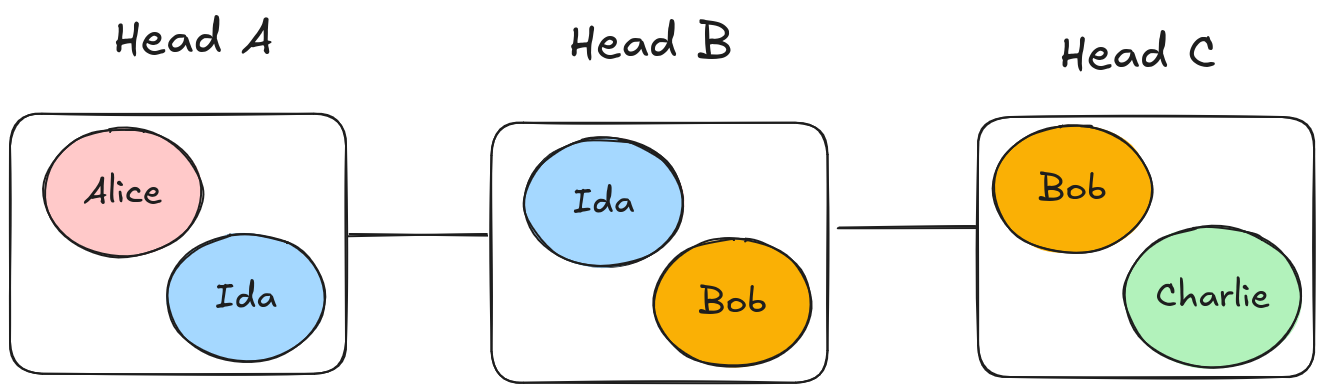
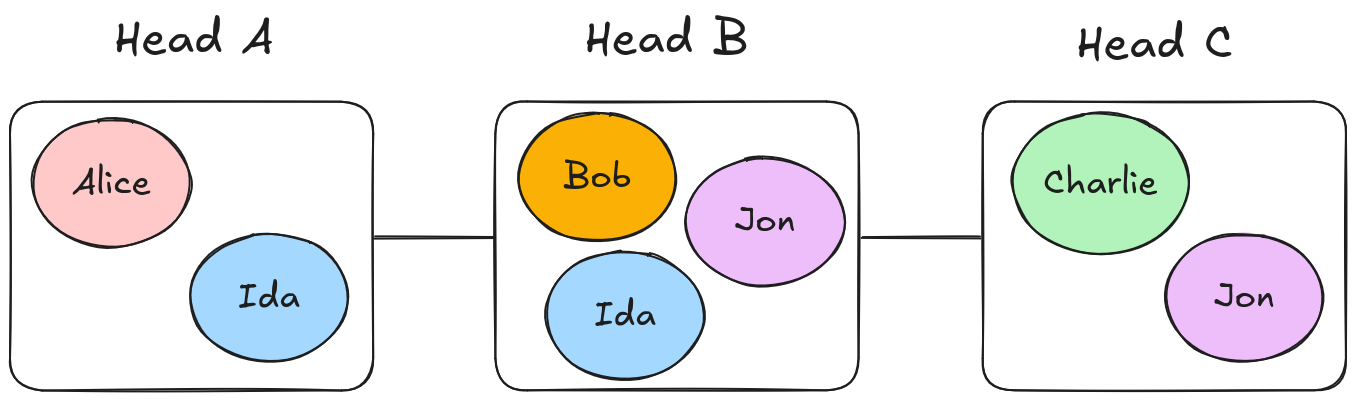
feat: add support for jon user (intermediary in signle path topology)

diff --git a/src/client/lib/topologies.ts b/src/client/lib/topologies.ts
@@ -1,12 +1,33 @@
 import { HydraHeadConfig } from "./config";
+import { UserName } from "./users";
 
 export type TopologyId = "two-heads" | "single-path" | "hub-and-spoke";
+
+// Actual users (excluding automated intermediaries ida and jon)
+export type PaymentUser = 'alice' | 'bob' | 'charlie';
+
+// Payment step in a path
+export type PaymentStep = {
+  from: {
+    name: UserName;  // Can include 'ida' in steps (as intermediary)
+    head: string;    // 'a', 'b', 'c', etc.
+  };
+  to: {
+    name: UserName;  // Can include 'ida' in steps (as intermediary)
+    head: string;
+  };
+};
+
+// PaymentPaths only has actual users as keys (not intermediaries)
+// Inner record is Partial to allow placeholders for topologies not yet configured
+export type PaymentPaths = Partial<Record<PaymentUser, Partial<Record<PaymentUser, PaymentStep[]>>>>
 
 export type TopologyConfig = {
   id: TopologyId;
   name: string;
   description: string;
   heads: HydraHeadConfig[];
+  paymentPaths: PaymentPaths;
 };
 
 // Two-heads topology
@@ -38,16 +59,30 @@ const twoHeadsConfig: TopologyConfig = {
       },
     },
   ],
+  paymentPaths: {
+    alice: {
+      bob: [
+        { from: { name: 'alice', head: 'a' }, to: { name: 'ida', head: 'a' } },
+        { from: { name: 'ida', head: 'b' }, to: { name: 'bob', head: 'b' } }
+      ],
+    },
+    bob: {
+      alice: [
+        { from: { name: 'bob', head: 'b' }, to: { name: 'ida', head: 'b' } },
+        { from: { name: 'ida', head: 'a' }, to: { name: 'alice', head: 'a' } }
+      ],
+    },
+  },
 };
 
 // Single-path topology
 // Head A: alice, ida-1 (ports 4111, 4119)
-// Head B: ida-2, bob-1 (ports 4129, 4122)
-// Head C: bob-2, charlie (ports 4132, 4133)
+// Head B: bob, ida-2, jon-1 (ports 4122, 4129, 4128)
+// Head C: charlie, jon-2 (ports 4133, 4138)
 const singlePathConfig: TopologyConfig = {
   id: "single-path",
   name: "Single Path",
-  description: "Alice/Ida ↔ Ida/Bob ↔ Bob/Charlie",
+  description: "Alice/Ida ↔ Bob/Ida/Jon ↔ Charlie/Jon",
   heads: [
     {
       name: "Head A",
@@ -65,8 +100,9 @@ const singlePathConfig: TopologyConfig = {
       headId: "0000000000000000000000000000000000000000000000000000000000000002",
       tag: "Open",
       nodes: {
-        ida: "http://localhost:4129",
         bob: "http://localhost:4122",
+        jon: "http://localhost:4128",
+        ida: "http://localhost:4129",
       },
     },
     {
@@ -75,11 +111,45 @@ const singlePathConfig: TopologyConfig = {
       headId: "0000000000000000000000000000000000000000000000000000000000000003",
       tag: "Open",
       nodes: {
-        bob: "http://localhost:4132",
         charlie: "http://localhost:4133",
+        jon: "http://localhost:4138",
       },
     },
   ],
+  paymentPaths: {
+    alice: {
+      bob: [
+        { from: { name: 'alice', head: 'a' }, to: { name: 'ida', head: 'a' } },
+        { from: { name: 'ida', head: 'b' }, to: { name: 'bob', head: 'b' } },
+      ],
+      charlie: [
+        { from: { name: 'alice', head: 'a' }, to: { name: 'ida', head: 'a' } },
+        { from: { name: 'ida', head: 'b' }, to: { name: 'jon', head: 'b' } },
+        { from: { name: 'jon', head: 'c' }, to: { name: 'charlie', head: 'c' } },
+      ],
+    },
+    bob: {
+      alice: [
+        { from: { name: 'bob', head: 'b' }, to: { name: 'ida', head: 'b' } },
+        { from: { name: 'ida', head: 'a' }, to: { name: 'alice', head: 'a' } },
+      ],
+      charlie: [
+        { from: { name: 'bob', head: 'b' }, to: { name: 'jon', head: 'b' } },
+        { from: { name: 'jon', head: 'c' }, to: { name: 'charlie', head: 'c' } },
+      ],
+    },
+    charlie: {
+      alice: [
+        { from: { name: 'charlie', head: 'c' }, to: { name: 'jon', head: 'c' } },
+        { from: { name: 'jon', head: 'b' }, to: { name: 'ida', head: 'b' } },
+        { from: { name: 'ida', head: 'a' }, to: { name: 'alice', head: 'a' } },
+      ],
+      bob: [
+        { from: { name: 'charlie', head: 'c' }, to: { name: 'jon', head: 'c' } },
+        { from: { name: 'jon', head: 'b' }, to: { name: 'bob', head: 'b' } },
+      ],
+    },
+  },
 };
 
 // Hub-and-spoke topology
@@ -123,6 +193,38 @@ const hubAndSpokeConfig: TopologyConfig = {
       },
     },
   ],
+  paymentPaths: {
+    alice: {
+      bob: [
+        { from: { name: 'alice', head: 'a' }, to: { name: 'ida', head: 'a' } },
+        { from: { name: 'ida', head: 'b' }, to: { name: 'bob', head: 'b' } },
+      ],
+      charlie: [
+        { from: { name: 'alice', head: 'a' }, to: { name: 'ida', head: 'a' } },
+        { from: { name: 'ida', head: 'c' }, to: { name: 'charlie', head: 'c' } },
+      ],
+    },
+    bob: {
+      alice: [
+        { from: { name: 'bob', head: 'b' }, to: { name: 'ida', head: 'b' } },
+        { from: { name: 'ida', head: 'a' }, to: { name: 'alice', head: 'a' } },
+      ],
+      charlie: [
+        { from: { name: 'bob', head: 'b' }, to: { name: 'ida', head: 'b' } },
+        { from: { name: 'ida', head: 'c' }, to: { name: 'charlie', head: 'c' } },
+      ],
+    },
+    charlie: {
+      alice: [
+        { from: { name: 'charlie', head: 'c' }, to: { name: 'ida', head: 'c' } },
+        { from: { name: 'ida', head: 'a' }, to: { name: 'alice', head: 'a' } },
+      ],
+      bob: [
+        { from: { name: 'charlie', head: 'c' }, to: { name: 'ida', head: 'c' } },
+        { from: { name: 'ida', head: 'b' }, to: { name: 'bob', head: 'b' } },
+      ],
+    },
+  },
 };
 
 export const TOPOLOGIES: Record<TopologyId, TopologyConfig> = {
@@ -139,3 +241,46 @@ export function getAllTopologies(): TopologyConfig[] {
   return Object.values(TOPOLOGIES);
 }
 
+/**
+ * Find payment path from one user/head to another
+ * Returns null if no path is found
+ */
+export function findPaymentPath(
+  topology: TopologyConfig,
+  fromUser: PaymentUser,
+  fromHead: `head-${"a" | "b" | "c"}`,
+  toUser: PaymentUser,
+  toHead: `head-${"a" | "b" | "c"}`
+): PaymentStep[] | null {
+  // Get the head letter (e.g., 'head-a' -> 'a')
+  const fromHeadLetter = fromHead.replace('head-', '');
+  const toHeadLetter = toHead.replace('head-', '');
+  
+  // Look up path in nested structure (only actual users as keys)
+  const userPaths = topology.paymentPaths[fromUser];
+  if (!userPaths) return null;
+  
+  const steps = userPaths[toUser];
+  if (!steps) return null;
+  
+  // Validate that the path matches the requested heads
+  // First step should start from fromHead, last step should end at toHead
+  if (steps.length === 0) return null;
+  
+  const firstStep = steps[0];
+  const lastStep = steps[steps.length - 1];
+  
+  if (firstStep.from.head !== fromHeadLetter || lastStep.to.head !== toHeadLetter) {
+    return null;
+  }
+  
+  return steps;
+}
+
+/**
+ * Check if a payment step is automated (initiated by an intermediary like ida)
+ */
+export function isAutomatedStep(step: PaymentStep): boolean {
+  const automatedIntermediaries: UserName[] = ['ida'];
+  return automatedIntermediaries.includes(step.from.name);
+}

diff --git a/src/client/app/api/hydra/[headRoute]/htlc/lock/route.ts b/src/client/app/api/hydra/[headRoute]/htlc/lock/route.ts
@@ -74,7 +74,7 @@ export async function POST(
     // Validate user names
     const sender = senderName as UserName
     const recipient = recipientName as UserName
-    if (!['alice', 'bob', 'ida'].includes(sender) || !['alice', 'bob', 'ida'].includes(recipient)) {
+    if (!['alice', 'bob', 'ida', 'charlie', 'jon'].includes(sender) || !['alice', 'bob', 'ida', 'charlie', 'jon'].includes(recipient)) {
       return NextResponse.json(
         { error: 'Invalid user name' },
         { status: 400 }
@@ -105,7 +105,7 @@ export async function POST(
 
     // Validate desired output receiver
     const desiredOutputReceiver = desiredOutputConfig.receiver as UserName
-    if (!['alice', 'bob', 'ida'].includes(desiredOutputReceiver)) {
+    if (!['alice', 'bob', 'ida', 'charlie', 'jon'].includes(desiredOutputReceiver)) {
       return NextResponse.json(
         { error: 'Invalid desired output receiver name' },
         { status: 400 }

diff --git a/src/client/components/htlc/utxo-item.tsx b/src/client/components/htlc/utxo-item.tsx
@@ -1,12 +1,10 @@
 'use client'
 
 import { Card, CardContent } from '@/components/ui/card'
-import { Button } from '@/components/ui/button'
 import { formatId } from '@/lib/utils'
 import { Copy } from 'lucide-react'
 import { useState, useEffect } from 'react'
 import UtxoDialog from './utxo-dialog'
-import { useContractAddresses } from '@/lib/use-contract-addresses'
 
 export type UtxoItem = {
   id: string
@@ -50,6 +48,8 @@ const getUserColor = (userName?: string) => {
       return { border: 'border-l-teal-500', badge: 'bg-teal-100 text-teal-700' }
     case 'charlie':
       return { border: 'border-l-green-500', badge: 'bg-green-100 text-green-700' }
+    case 'jon':
+      return { border: 'border-l-blue-500', badge: 'bg-blue-100 text-blue-700' }
     default:
       return { border: 'border-l-gray-500', badge: 'bg-gray-100 text-gray-700' }
   }

diff --git a/src/client/lib/users.ts b/src/client/lib/users.ts
@@ -5,7 +5,7 @@
 
 import { getTopologyConfig, TopologyId } from "./topologies"
 
-export type UserName = 'alice' | 'bob' | 'ida' | 'charlie'
+export type UserName = 'alice' | 'bob' | 'charlie' | 'ida' | 'jon'
 
 export type User = {
   name: UserName
@@ -43,6 +43,12 @@ export const users: Record<UserName, User> = {
     address: 'addr_test1vpewv3suua9003u2tav82nl2gx0atkgwdjanh2srxln4z4qahfpfm',
     vkHash: '72e6461ce74af7c78a5f58754fea419fd5d90e6cbb3baa0337e75154',
     skHash: 'ed25519_sk19elca94kqmsusrp0063977k7yh0hkvt7t7dx5rz43suwjl44z3ws3dvqkn',
+  },
+  jon: {
+    name: 'jon',
+    address: 'addr_test1vp9n0x2heemntaey6ycygk3wvuxtll2lqpsxc4mjxy34czqpcztw7',
+    vkHash: '4b379957ce7735f724d130445a2e670cbffd5f00606c577231235c08',
+    skHash: 'ed25519_sk1y5qmgv4yc6ge2t6uc380y8774j9hqg7fd7a6hmdatngt6ydnarusg7yyr7',
   },
 }
 

diff --git a/src/client/components/htlc/utxo-dialog.tsx b/src/client/components/htlc/utxo-dialog.tsx
@@ -47,7 +47,6 @@ export default function UtxoDialog({
   const [claimSuccess, setClaimSuccess] = useState(false)
   const [refundError, setRefundError] = useState<string | null>(null)
   const [refundSuccess, setRefundSuccess] = useState(false)
-  const { data: contractAddresses } = useContractAddresses()
   const wasExplicitlyClosedRef = React.useRef(false)
 
   // Update current time every second when dialog is open

diff --git a/src/client/lib/use-current-user.ts b/src/client/lib/use-current-user.ts
@@ -11,7 +11,7 @@ const CURRENT_USER_KEY = 'currentUser'
 function getCurrentUserFromStorage(): UserName {
   if (typeof window === 'undefined') return 'alice'
   const saved = sessionStorage.getItem(CURRENT_USER_KEY) as UserName | null
-  return saved && ['alice', 'bob', 'ida', 'charlie'].includes(saved) ? saved : 'alice'
+  return saved && ['alice', 'bob', 'charlie'].includes(saved) ? saved : 'alice'
 }
 
 /**

diff --git a/src/client/components/user/user-switcher.tsx b/src/client/components/user/user-switcher.tsx
@@ -31,7 +31,7 @@ export default function UserSwitcher() {
       </DropdownMenuTrigger>
       <DropdownMenuContent className="w-64" align="start">
         {allUsers
-          .filter((u) => u.name !== currentUser)
+          .filter((u) => u.name !== currentUser && u.name !== 'jon' && u.name !== 'ida')
           .map((u) => (
             <DropdownMenuItem
               key={u.name}

diff --git a/src/client/components/sidebar.tsx b/src/client/components/sidebar.tsx
@@ -32,6 +32,11 @@ const userColors: Record<UserName, { bg: string; border: string; text: string }>
     border: 'border-green-300',
     text: 'text-green-700',
   },
+  jon: {
+    bg: 'bg-blue-50',
+    border: 'border-blue-300',
+    text: 'text-blue-700',
+  },
 }
 
 export default function Sidebar() {

diff --git a/src/infra/README.md b/src/infra/README.md
@@ -38,7 +38,7 @@ The use case for this topology is HTLC-based payments between two parties from d
 
 ### Single-path topology
 
-The single-path topology is a topology where three heads are connected in a chain, two participants each.
+The single-path topology is a topology where three heads are connected in a chain, two participants each except for the middle head which has three participants.
 
 The use case for this topology is HTLC-based payments between two parties from different heads, by potentially needing multiple hops.
 
@@ -85,9 +85,9 @@ Z = UserId (A1Z26 encoded)
 
 ### User IDs (A1Z26)
 
-| Alice | Bob | Charli | Ida |
-|-------|-----|--------|-----|
-| 1     | 2   | 3      | 9   |
+| Alice | Bob | Charli | Jon | Ida |
+|-------|-----|--------|-----|-----|
+| 1     | 2   | 3      | 8   | 9   |
 
 ---
 
